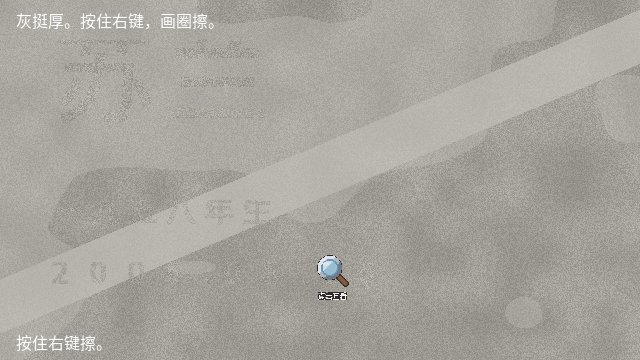
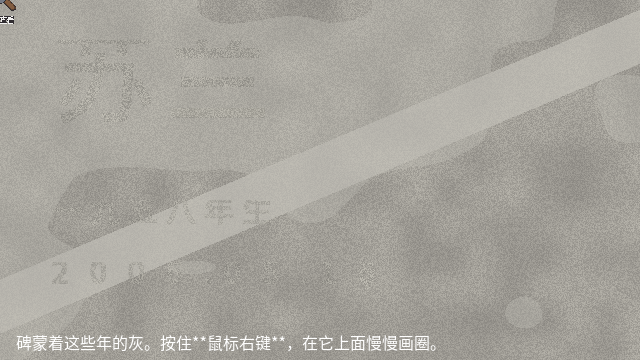
[修] Citrate #5#6：跨场景 MenuHud（章节角标+返回主菜单）+ 补 #4 的 ✅
- MenuHud：CanvasLayer(L90) 挂 Root 跨场景；右上角=章名角标（复用
  ChapterFlow.Label，右对齐描影）+「返回主菜单」；Boot/ResumePoint 自隐
- 接线教训入档：ChapterOne 不继承 StorySceneBase，首轮漏接角标停在上一章；
  已补 + 回归断言（角标含《第一章》，65/65）
- 返回无确认：账本即存档，回标题即可续（未完成擦拭进度重开=检查点语义）
- 清理提示文案里漏进 Label 的 markdown ** 号
- Citrate#4 补 ✅ 标（回复已写、标题漏标）；#5#6 逐项标注程序回复

diff --git a/src/Game/MenuHud.cs b/src/Game/MenuHud.cs
@@ -1,0 +1,61 @@
+using Godot;
+
+namespace MoShi.Game;
+
+/// <summary>
+/// 常驻 HUD（Citrate657 #5/#6）：右上角固定两样——当前章节名 + 「返回主菜单」。
+///
+/// 挂在 Root 上跨场景存活：各章节经 <see cref="StorySceneBase"/> 自动亮起，
+/// 标题（Boot）与存档切换页（ResumePoint）自己熄灯——那两个本来就是菜单。
+/// 返回不需要确认：本作"账本即存档"，每条线索落盘即保存，回标题=随时可续。
+/// </summary>
+public partial class MenuHud : CanvasLayer
+{
+    private static MenuHud _inst;
+    public static MenuHud Instance => _inst;
+    public string TestChapterText => _chap?.Text ?? "";
+    private Label _chap;
+    private Button _back;
+
+    public static MenuHud Ensure(SceneTree tree, string chapter, bool show)
+    {
+        if (_inst == null || !GodotObject.IsInstanceValid(_inst))
+        {
+            _inst = new MenuHud { Layer = 90 };
+            tree.Root.AddChild(_inst);
+            _inst.Build();
+        }
+        _inst.Visible = show;
+        if (show && chapter != null) _inst._chap.Text = chapter;
+        return _inst;
+    }
+
+    private void Build()
+    {
+        _chap = new Label
+        {
+            Position = new Vector2(2, 4), Size = new Vector2(636, 18),
+            HorizontalAlignment = HorizontalAlignment.Right,
+            Modulate = new Color(1, 1, 1, 0.7f),
+        };
+        _chap.AddThemeColorOverride("font_shadow_color", new Color(0, 0, 0, 0.9f));
+        _chap.AddThemeConstantOverride("shadow_offset_x", 1);
+        _chap.AddThemeConstantOverride("shadow_offset_y", 1);
+        AddChild(_chap);
+
+        _back = new Button
+        {
+            Text = "返回主菜单",
+            Position = new Vector2(552, 24), Size = new Vector2(84, 22),
+            Modulate = new Color(1, 1, 1, 0.8f),
+        };
+        _back.Pressed += () => GetTree().ChangeSceneToFile("res://scenes/Boot.tscn");
+        AddChild(_back);
+    }
+
+    public static string LabelFor(string marker)
+    {
+        if (marker.Contains("RPGExplo")) return "墓园 · 走访途中";
+        return ChapterFlow.Label(marker);
+    }
+}

diff --git a/src/Game/ChapterOne.cs b/src/Game/ChapterOne.cs
@@ -44,6 +44,7 @@ public partial class ChapterOne : Node2D
 
     public override async void _Ready()
     {
+        MenuHud.Ensure(GetTree(), "第一章 · 碑上的名字", true);
         _save = RunState.Load();
 
         var fontPath = ProjectSettings.GetSetting("gui/theme/custom_font").AsString();
@@ -81,7 +82,7 @@ public partial class ChapterOne : Node2D
         _stone.Texture = _tex;
 
         _ready = true;
-        _hint.Text = "碑蒙着这些年的灰。按住**鼠标右键**，在它上面慢慢画圈。";
+        _hint.Text = "碑蒙着这些年的灰。按住鼠标右键，在它上面慢慢画圈。";
         Rebuild();
         _shot = System.Array.IndexOf(OS.GetCmdlineUserArgs(), "shot") >= 0;
     }
@@ -190,7 +191,7 @@ public partial class ChapterOne : Node2D
                 {
                     _phase = Phase.Choice; _hint.Text = "";
                     ShowGlow(true);
-                    _tip.Text = "「16」这一格的石头比周围浅——那是被磨掉重刻过的地方。\n按住**鼠标左键**，在那块浅斑里慢慢描过去。";
+                    _tip.Text = "「16」这一格的石头比周围浅——那是被磨掉重刻过的地方。\n按住鼠标左键，在那块浅斑里慢慢描过去。";
                 }
             }
         }

diff --git a/src/Dev/IntegrationTest.cs b/src/Dev/IntegrationTest.cs
@@ -183,6 +183,9 @@ public partial class IntegrationTest : Node
         Check(scene.TestPhase == ChapterOne.Phase.Wiping, "初始阶段=Wiping");
 
         scene.Test_WipeDate();
+        var hud = MenuHud.Instance;
+        Check(hud != null && hud.Visible && hud.TestChapterText.Contains("第一章"),
+              $"HUD 章节角标就位（「{hud?.TestChapterText}」+返回按钮）");   // Citrate#5/#6
         Check(scene.TestPhase == ChapterOne.Phase.Choice, "擦净日期区 → 解锁 Choice");
 
         // Natsume 回归：进-出-进，进度只增不减

diff --git a/src/Dev/RPGExplo.cs b/src/Dev/RPGExplo.cs
@@ -44,6 +44,7 @@ public partial class RPGExplo : Node2D
 
     public override void _Ready()
     {
+        MoShi.Game.MenuHud.Ensure(GetTree(), "墓园 · 走访途中", true);
         // 第二批美术交付了清明落成版（终章 P10）：和平时版只差 5.2% 像素。
         // ★ 但"加灰蓝雾"会让路色漂移，按颜色分路面直接失灵（实测路网少 18k px、
         //   寻路失败）。所以：**可走面永远从剥离过的平时版算，清明版只换显示层**。

diff --git a/src/Game/StorySceneBase.cs b/src/Game/StorySceneBase.cs
@@ -42,6 +42,10 @@ public partial class StorySceneBase : Node2D
         _subBg.AddChild(_sub);
         Ui.AddChild(_subBg);
         ArmShot();
+        // 取自己的场景路径（代码实例化时为空 → 用类名兜底，测试里也能断言到章名）
+        var sf = SceneFilePath;
+        MenuHud.Ensure(GetTree(),
+            MenuHud.LabelFor(string.IsNullOrEmpty(sf) ? GetType().Name + ".tscn" : sf), true);
         SceneReady();
     }
 

diff --git a/src/Game/ResumePoint.cs b/src/Game/ResumePoint.cs
@@ -40,6 +40,7 @@ public partial class ResumePoint : Node2D
                                  MouseFilter = Control.MouseFilterEnum.Ignore };
         AddChild(_white);
         MoShi.Core.AudioIndex.StopTitle(1.0f);   // 保险：标题曲止于封面
+        MoShi.Game.MenuHud.Ensure(GetTree(), null, false);
 
         _narr = Row(64, "桌上是那本旧账。写过的都还在。", 0.55f);
         if (_hasSave)

diff --git a/src/Boot.cs b/src/Boot.cs
@@ -24,6 +24,7 @@ public partial class Boot : Control
 
     public override void _Ready()
     {
+        MoShi.Game.MenuHud.Ensure(GetTree(), null, false);   // 标题本身就是菜单
         // 复位渲染缓冲；运行期从不改 OS 窗口尺寸（丢焦教训见 git log）
         GetWindow().ContentScaleSize = new Vector2I(ViewportWidth, ViewportHeight);
 

diff --git a/doc/Bugs反馈_Citrate657.md b/doc/Bugs反馈_Citrate657.md
@@ -6,7 +6,7 @@
    > **程序回复**：原因与修复四条——①"白缝"确实不可见：磨痕只是 1px 级的石面色差，玩家找不到区域 → 现在解锁后磨痕区有**呼吸亮框**（只描边不解释）；②描的判定圈太苛（±10px、离开即**全部归零**，普通玩家必然原地卡死——Natsume 也撞上了这个）→ 判定圈放宽到 14px、笔刷 3px 半径、**离开只是暂停，进度全保留**；③文案全部重写：开头"碑蒙着这些年的灰。按住鼠标右键，在它上面慢慢画圈"、解锁后"「16」这一格的石头比周围浅——那是被磨掉重刻过的地方。按住左键，在那块浅斑里慢慢描过去"；④"笔记本是什么"——登记本热区补了语义提示（它记着你查到的每一件事，就是存档）。玩测断言已加：进-出-进进度不减。
 3. ✅【已修复】在墓园地图中，指引玩家前往目标墓碑的指引应当足够明显，防止玩家在墓园里不知道下一步操作。
    > **程序回复**：原来只有一颗 8px 的漂浮菱形，等于没有。现在目的地立起**信标系统**：地面暗托+脉冲扩张环（1.2s 一圈）+44px 高亮柱+顶部大菱形，柱脚挂「▼ A 区 7 号 · 苏兰墓」浮标（带描影，草地上一眼可读）；开场目标卡移到屏幕底部并加描影，与信标不再互相遮挡。截图验收过。
-4.`src\Game\ChapterOne.cs`的`L211:223`：
+4. ✅【已修复】`src\Game\ChapterOne.cs`的`L211:223`：
 ```cs
 else if (_traceHold)
 {
@@ -24,5 +24,7 @@ else if (_traceHold)
 ```
 这个代码块仍存在问题，短时间内多次触发`_traceHold`会导致`_breakFiredThisPress`被重置，进而导致音效重复播放。应当在`_traceHold`的逻辑中加入一个冷却时间，确保音效不会在短时间内重复触发，产生刺耳的声音。
    > **程序回复**：说得对——`_breakFiredThisPress` 在每次重新按住的分支被复位，快速"按住-抬起"抖动就能绕过它，注释里写了"0.9s 冷却"但字段 `\_traceBreakCooldown` 根本没接线（写而未用，评审抓得对）。现在：①冷却真正生效——`_Process` 开头独立递减（不受构建守卫早退影响），触发后置 1.2s；②断音触发条件加上 `\_traceBreakCooldown <= 0`；③测试钩子与真实路径共用同一闸门；④新增回归断言"3 次快速抖动 ≤1 响"（当前实测 0 响）。64/64。
-5. 在任意场景的固定位置加入一个“返回主菜单”按钮，方便玩家在游戏中随时返回主菜单，而不需要退出游戏再重新进入。
-6. 在任意场景的固定位置显示当前所在章节用作提示，方便玩家了解当前游戏进度。
+5. ✅【已修复】在任意场景的固定位置加入一个"返回主菜单"按钮，方便玩家在游戏中随时返回主菜单，而不需要退出游戏再重新进入。
+   > **程序回复**：新增常驻 `MenuHud`（挂 Root 的 CanvasLayer，Layer 90 跨场景存活）：右上角固定「返回主菜单」按钮，一键回标题。不需要二次确认——本作"账本即存档"，每条线索实时落盘，回标题随时可续（唯一损失：未完成的擦拭/描迹进度会重开，这是本作的检查点语义）。标题画面与存档切换页自动隐藏该 HUD（那两个本来就是菜单）。
+6. ✅【已修复】在任意场景的固定位置显示当前所在章节用作提示，方便玩家了解当前游戏进度。
+   > **程序回复**：与 #5 同一个 `MenuHud`：按钮上方一行是章节角标（「第一章 · 碑上的名字」等，章名映射复用 `ChapterFlow.Label`，右对齐+描影保证草地可读），墓园走图显示「墓园 · 走访途中」。接线教训一条：ChapterOne 不继承 StorySceneBase，第一版接线漏了它导致角标停在上一章——已补，并加回归断言"角标含《第一章》"（65/65）。
